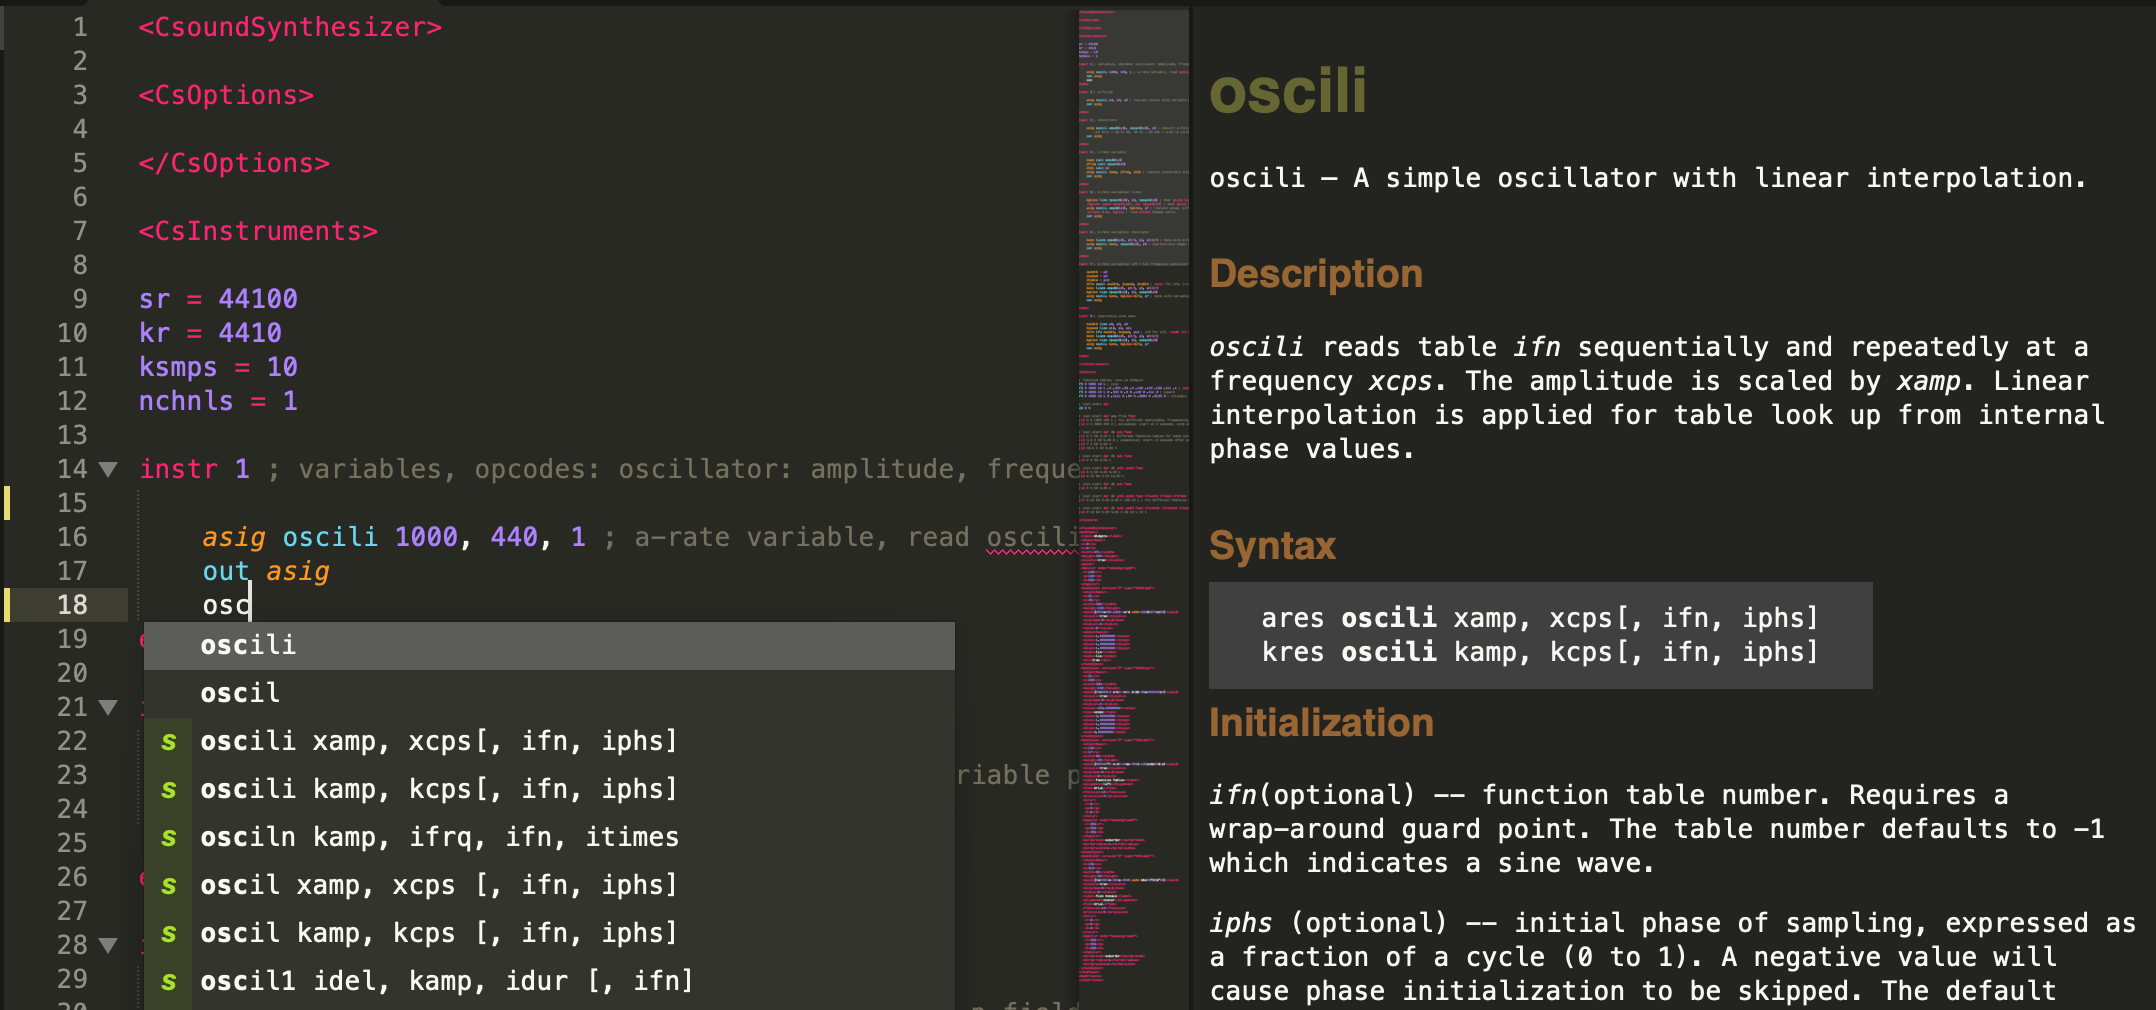
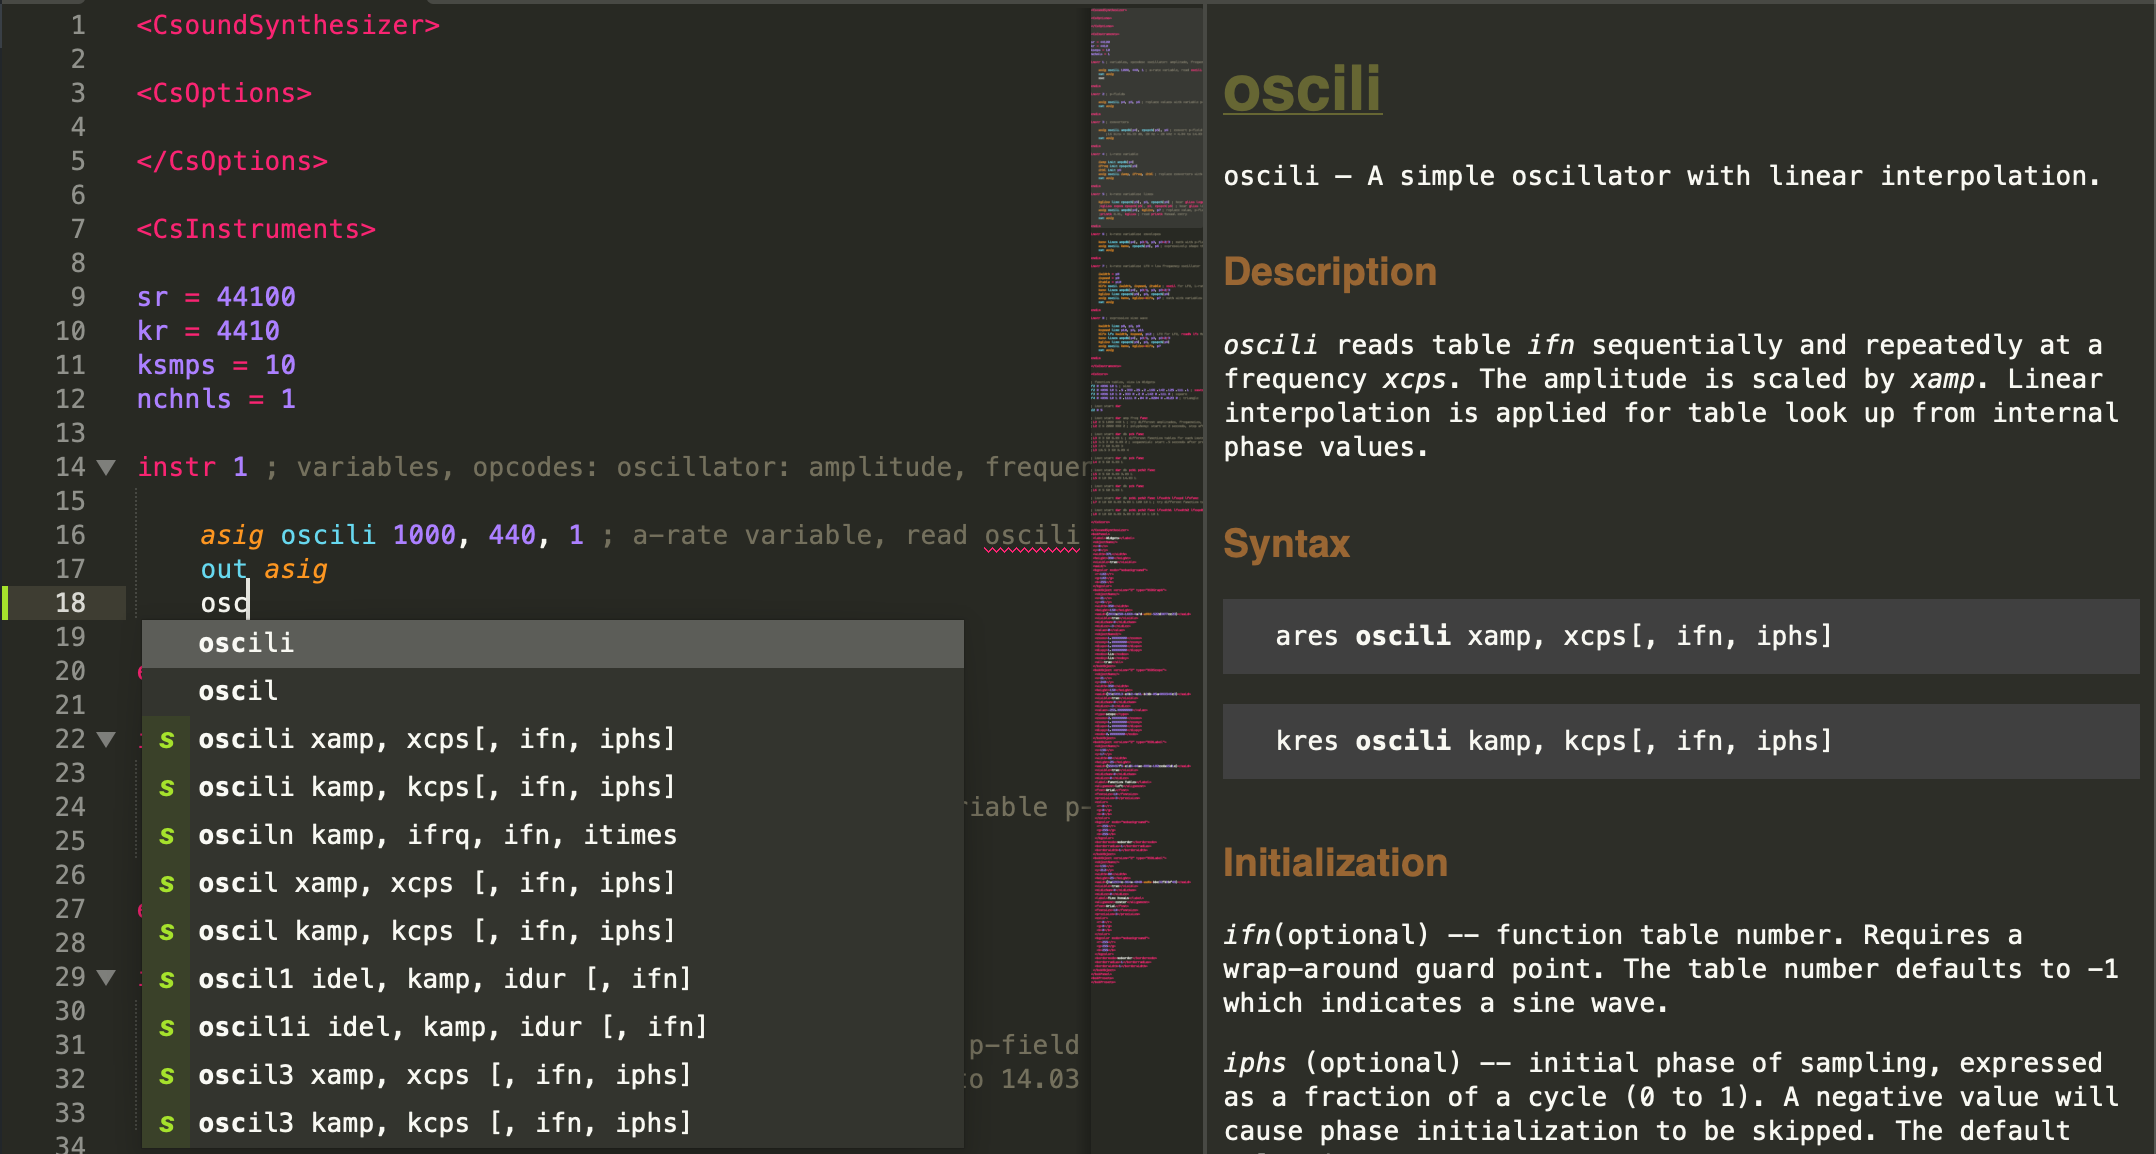
v1.1.0

Changed region(s): [[0.0, 0.0, 1.0, 1.0], [0.4661, 0.9822, 0.4972, 1.0], [0.0, 0.0, 0.0311, 0.0307]]

diff --git a/README.md b/README.md
@@ -1,15 +1,16 @@
-# SublimeCsound v1.0.0
+# SublimeCsound v1.1.0
 A Sublime Text 4 Plugin that adds Csound support and documentation.
 
 ## About
-This plugin uses syntax highlighting and completions from [CsoundST3](https://github.com/nikhilsinghmus/CsoundST3)<br>
-And adds more build systems and an ide-like documentation window inspired by CsoundQt.
+This plugin uses syntax highlighting and completions from [CsoundST3](https://github.com/nikhilsinghmus/CsoundST3),<br>
+and adds more build systems and an ide-like documentation window inspired by CsoundQt.
 
 ![Csound Example](example.png)
 
 ## Installation
 Clone or download this repo into the Sublime Packages folder.<br>
-This plugin should work on MacOS, Linux, and Windows.
+This plugin should work on MacOS, Linux, and Windows.<br>
+Clear the documentation cache after every update (see below).
 
 ## Usage
 Syntax highlighting, completions, and build systems work as you'd expect.
@@ -18,17 +19,23 @@ To use the documentation:
 1. Open your Csound file
 2. Change to two columns (View -> Layout -> Columns: 2) (or cmd-alt-2)
 3. Place your cursor within an opcode (e.g. oscili)
+4. The documentation will appear in the second column
+5. Click the links or page title to open them in the default webbrowser
 
 The documentation is fetched from the web and cached.<br>
 To clear the cache, use the command pallet to run the `Csound: Clear Documentation Cache` command.
 
 ## How it Works
-When the user selects (or moves their cursor to) text with a scope of support.function.csound
+When the user selects (or moves their cursor to) text with a scope of support.function.csound:
 1. The current word is grabbed
 2. A request is made to [http://www.csounds.com/manual/html/\<word\>.html]()
 3. The html is wrangled to loosely fit sublime's minihtml spec
-4. csound.css style is added (which originally came from [http://www.csounds.com/manual/html/csound.css]())
-5. The resultant minihtml is displayed to the user in the second column
+4. The links are updated and the title is turned into a link
+5. csound.css style is added (which originally came from [http://www.csounds.com/manual/html/csound.css](http://www.csounds.com/manual/html/csound.css))
+6. The resultant minihtml is displayed to the user in the second column
 
 ## What's New?
-v1.0: First version
+v1.1: Links work, made the page title a link, updated and fixed styles, fixed random characters in the build results<br>
+v1.0: First version<br>
+<br>
+#BBB
